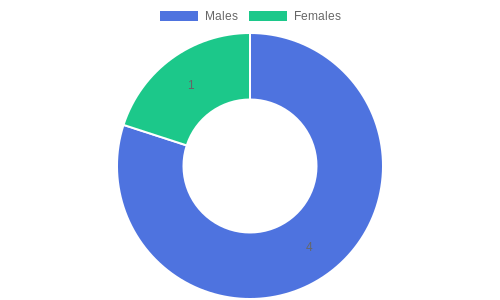
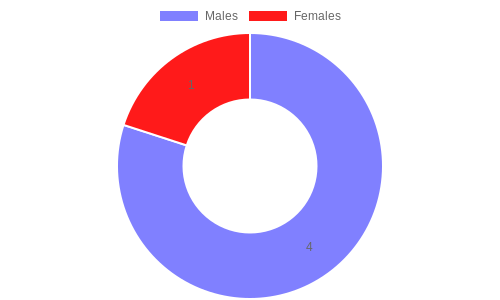
slider done

Changed region(s): [[0.21, 0.03, 0.78, 1.0], [0.3, 0.03, 0.42, 0.09]]

diff --git a/routes/admin.js b/routes/admin.js
@@ -16,7 +16,7 @@ const ensureAdminAuthenticated = require("../views/helpers/adminAuth");
 const Request = require('../models/Request');
 const Tailor = require('../models/Tailor');
 const PDFDocument = require('pdfkit');
-
+const UsersJoinedLog = require("../models/Logs/JoinedUsersLogs")
 // const blobStream  = require('blob-stream');
 // const PDFDocument = require("pdfkit-table");
 const fs = require('fs');
@@ -24,6 +24,8 @@ const path = require('path');
 const moment = require('moment');
 const { NONE } = require('sequelize');
 
+const dfd = require("danfojs-node");
+const ChartJsImage = require('chartjs-to-image');  
 
 // For mail
 const nodemailer = require("nodemailer");
@@ -314,6 +316,8 @@ router.get("/ReportsManagement", ensureAdminAuthenticated, async (req, res) => {
     res.render("admin/ReportManagement", { totalUsers,totalSubs,traffic,newsLetterTraffic })
 })
 
+
+
 router.post("/DownloadReports", ensureAdminAuthenticated, async (req, res) => {
     
     let { reportName,reportDescription,additionalTags,userTraffic,subscriptionTraffic,TrafficLogs,userRoles,userGenders,startDate,endDate} = req.body;
@@ -329,6 +333,47 @@ router.post("/DownloadReports", ensureAdminAuthenticated, async (req, res) => {
     //     let canvas = document.getElementById(id);
     //     return canvas.toDataURL(1.0);
     // }
+    if(startDate!=undefined && endDate!=undefined){
+        let cols = ["Dates","NoOfUsersJoined"];
+        let data = [];
+        const usersJoined = await UsersJoinedLog.findAll({where: {role:"C"}});
+        usersJoined.forEach(element => {
+            let rawData = [element.date, element.noOfUsersJoined];
+            data.push(rawData)
+        
+          });
+
+        // Set Day Data
+        dfDay = new dfd.DataFrame(data,{columns:cols})
+        group_dfDay = dfDay.groupby(["Dates"]).sum()
+        const df2 = dfd.toJSON(group_dfDay,{format:"json"})
+
+        var NoOfUsers_day = [];
+        var dates_day = [];
+        console.log(df2)
+        df2.forEach((element) => {
+            
+            var strToStartDate = new Date(startDate).toISOString();
+            var strToEndDate = new Date(endDate).toISOString();
+            console.log(strToStartDate)
+            console.log(strToEndDate)
+            console.log(element["Dates"])
+            if(element["Dates"].toISOString()>=strToStartDate && element["Dates"].toISOString()<=strToEndDate){
+            NoOfUsers_day.push(element["NoOfUsersJoined_sum"]);
+            dates_day.push(element["Dates"].toString().slice(0,10));
+            console.log("success")
+            }
+        });
+        const myChart = new ChartJsImage();
+        myChart.setConfig({
+        type: 'line',
+        data: { labels: dates_day, datasets: [{ label: 'Numbers of Users Joined', data: NoOfUsers_day }] },
+        
+        });
+
+        myChart.toFile(path.join(__dirname, '../public/images/ChartImages/UsersJoinedChart.png'));
+    }
+
     if(userTraffic!=undefined){
         PathUsersJoinedChart = path.join(__dirname, '../public/images/ChartImages/UsersJoinedChart.png')
     }
@@ -336,6 +381,9 @@ router.post("/DownloadReports", ensureAdminAuthenticated, async (req, res) => {
         PathUsersSubscribedChart = path.join(__dirname, '../public/images/ChartImages/UsersSubscriptionChart.png')
     }
 
+    
+
+  
 
    if(additionalTags == ""){
     additionalTags = "None"

diff --git a/routes/main.js b/routes/main.js
@@ -48,12 +48,12 @@ router.get('/', async (req,res) =>{
     res.render("index",{products, noProduct})
 })
 
-router.get('/searchedItem=:string', async (req,res) =>{
+router.get('/searchedItem=:string&min=:min&max=:max', async (req,res) =>{
     let noProduct;
     Allproducts = (await Product.findAll())
     products = []
     for(let i = 0; i < Allproducts.length; i++){
-        if(Allproducts[i].dataValues.name.includes(req.params.string)){
+        if(Allproducts[i].dataValues.name.includes(req.params.string) && Allproducts[i].dataValues.price >= req.params.min && Allproducts[i].dataValues.price <= req.params.max){
             products.push(Allproducts[i].dataValues)
         }
     }   
@@ -76,7 +76,9 @@ router.post('/search', async (req,res) =>{
     
     
     let search = req.body.search;
-    res.redirect("/searchedItem="+search)
+    let min = req.body.min;
+    let max = req.body.max;
+    res.redirect("/searchedItem="+search+"&min="+min+"&max="+max)
 })
 
 router.post('/addtoCart',ensureAuthenticated, async (req,res) =>{

diff --git a/routes/datapipeline.js b/routes/datapipeline.js
@@ -75,7 +75,8 @@ router.get('/NoOfUsersJoined', async (req, res) => {
     NoOfUsers_day.push(element["NoOfUsersJoined_sum"]);
     dates_day.push(element["Dates"].toString().slice(0,10));
   });
-  
+  console.log(dates_day)
+  console.log(NoOfUsers_day)
   const myChart = new ChartJsImage();
   myChart.setConfig({
     type: 'line',
@@ -287,7 +288,7 @@ router.get('/UserGenders', async (req, res) => {
     type: 'doughnut',
     
     data: { 
-      labels: ["Males","Females"], datasets: [{ label: 'User Roles Types', data: [Males,Females],backgroundColor: ['#4e73df', '#1cc88a' ],color:["yellow","black"]}] 
+      labels: ["Males","Females"], datasets: [{ label: 'User Gender Types', data: [Males,Females],backgroundColor: ["rgb(128, 128, 255)", "rgb(255, 26, 26)" ],color:["yellow","black"]}] 
     },
     
     

diff --git a/views/MailTemplates/NewsLetter.html b/views/MailTemplates/NewsLetter.html
@@ -146,7 +146,7 @@ font-size: 1.2em;
         <p>You're receiving this email because you subscribed to the Threads In Times News Letter. 
           </p>
         <p>You can <a data-msys-unsubscribe="1" href="" title="Unsubscribe from Threads In Times email">instantly opt out</a> any time.</p>
-          
+      
       <br>
       
       <p>© Threads in Times 2022</p>
